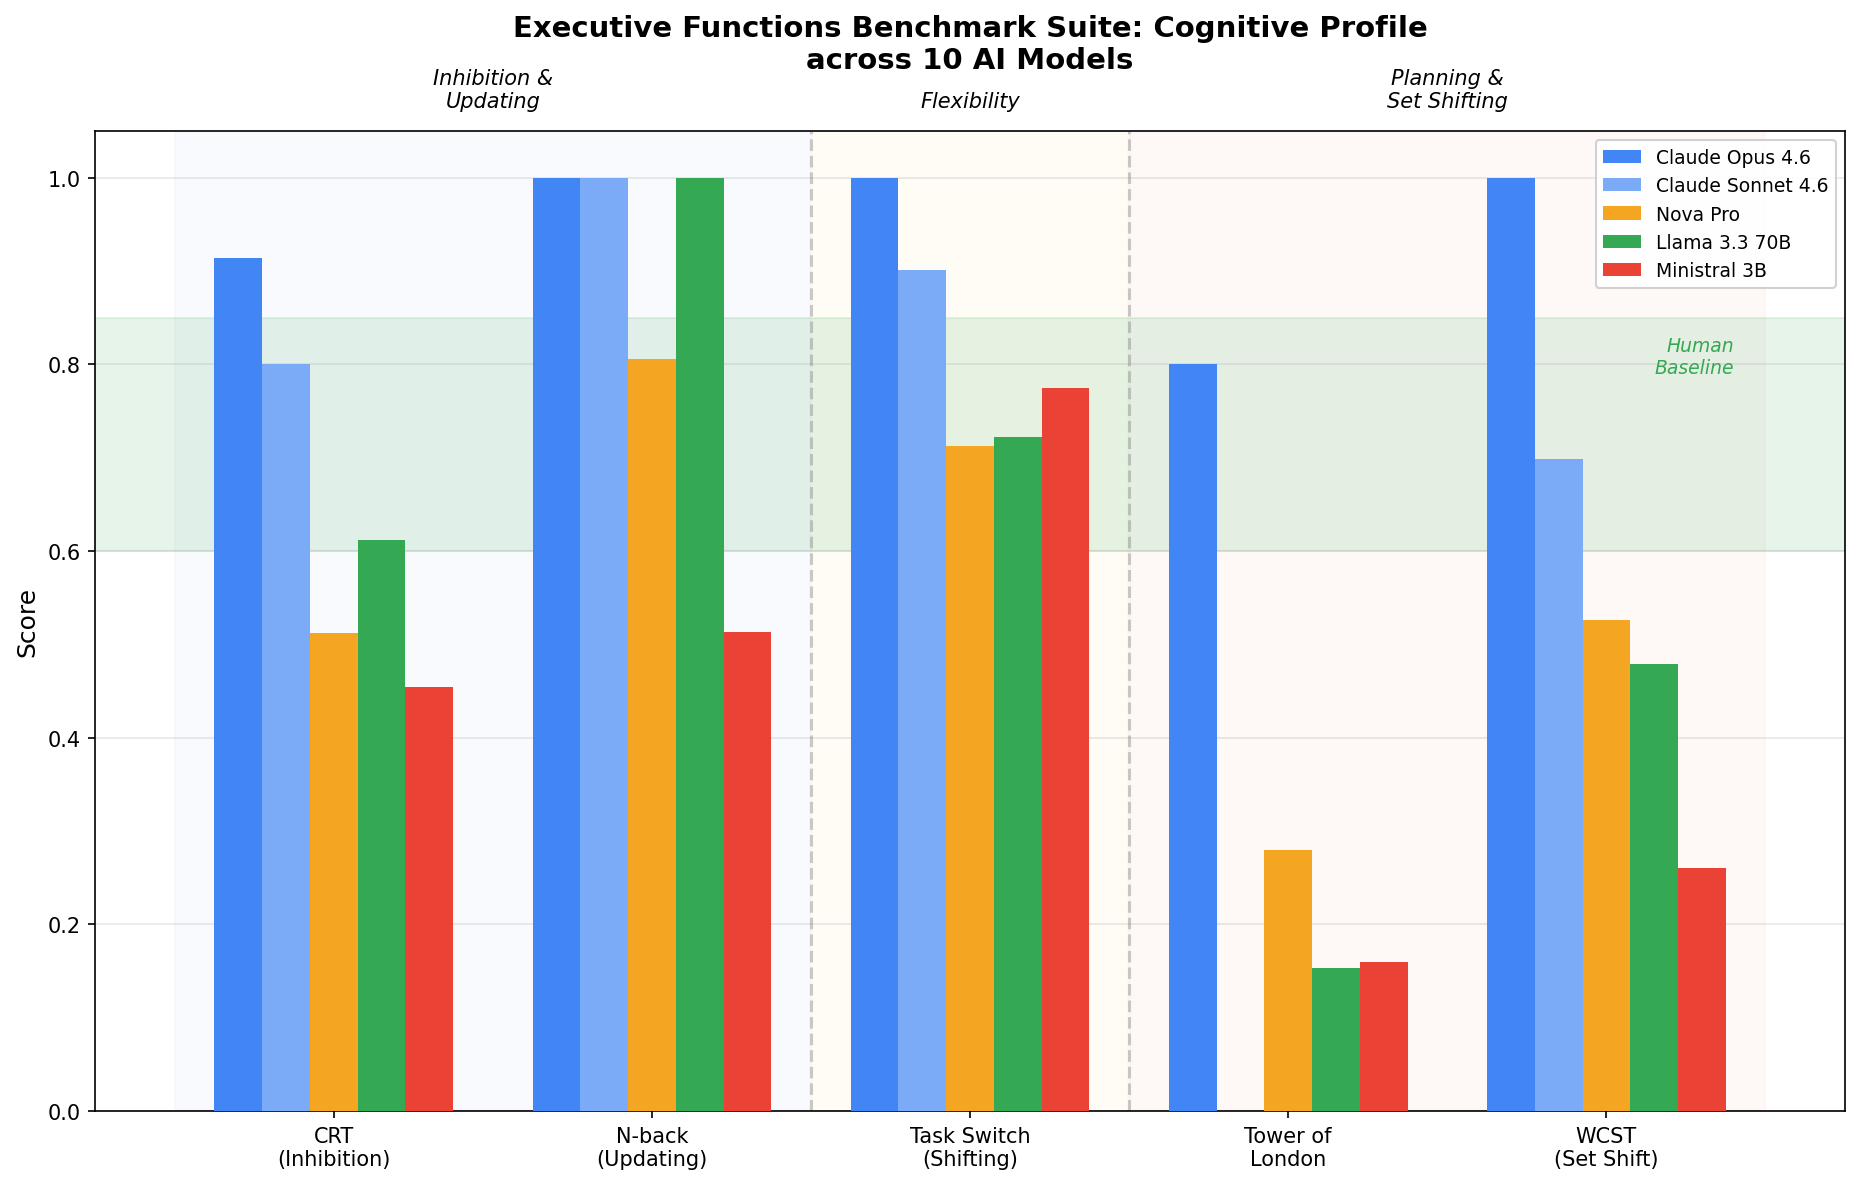
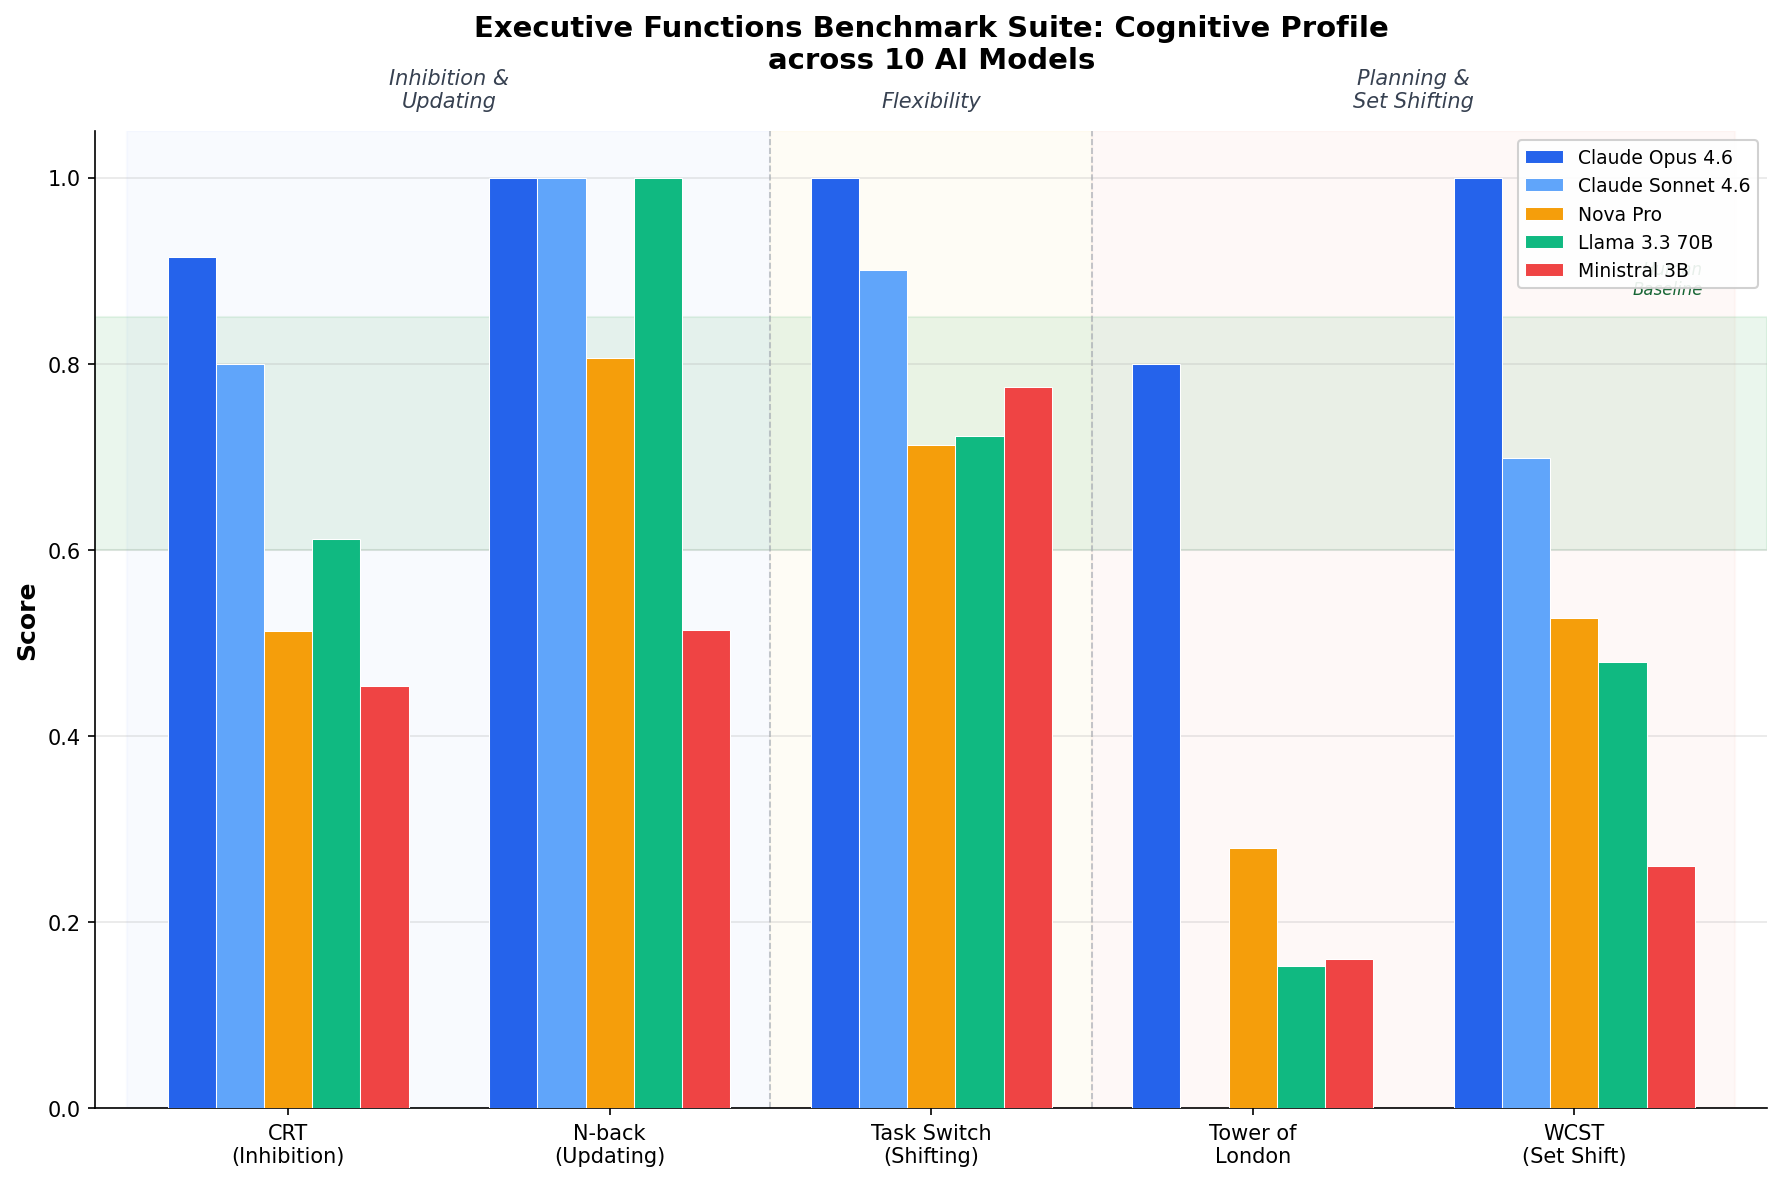
metacognition: Regenerate cover images for all 5 tracks using final 10-model scores

diff --git a/benchmarks/social_cognition/task_emotional_prosody.py b/benchmarks/social_cognition/task_emotional_prosody.py
@@ -401,6 +401,63 @@ PROSODY_ITEMS = [
             {"speaker": "A", "text": "Sure. Anyway, thanks for stopping by."},
         ],
     },
+    # === CAMOUFLAGED SHIFT ITEMS (shift looks absent but is real — requires deep reading) ===
+    {
+        "id": "cam_01",
+        "has_shift": True,
+        "shift_turn": 4,
+        "emotion_before": "helpful",
+        "emotion_after": "exhausted",
+        "trigger": "speaker realizes the favor request is endless and gives up resisting",
+        "difficulty": "camouflaged",
+        "dialogue": [
+            {"speaker": "A", "text": "Could you take a quick look at my draft? Just the intro."},
+            {"speaker": "B", "text": "Sure, send it over."},
+            {"speaker": "A", "text": "Actually, could you also check the methods section?"},
+            {"speaker": "B", "text": "OK."},
+            {"speaker": "A", "text": "And I added a new appendix if you have time."},
+            {"speaker": "B", "text": "Sure."},
+            {"speaker": "A", "text": "You're amazing, this is so helpful."},
+            {"speaker": "B", "text": "No problem."},
+        ],
+    },
+    {
+        "id": "cam_02",
+        "has_shift": True,
+        "shift_turn": 3,
+        "emotion_before": "collaborative",
+        "emotion_after": "disengaged",
+        "trigger": "speaker stops contributing ideas after one is dismissed without consideration",
+        "difficulty": "camouflaged",
+        "dialogue": [
+            {"speaker": "A", "text": "What if we used a darker color scheme for the homepage?"},
+            {"speaker": "B", "text": "We already decided on the current palette."},
+            {"speaker": "A", "text": "What about adding a testimonials section?"},
+            {"speaker": "B", "text": "We can consider that."},
+            {"speaker": "A", "text": "OK."},
+            {"speaker": "B", "text": "Any other ideas?"},
+            {"speaker": "A", "text": "Not really. You've got it covered."},
+        ],
+    },
+    {
+        "id": "cam_03",
+        "has_shift": True,
+        "shift_turn": 5,
+        "emotion_before": "trusting",
+        "emotion_after": "withdrawn",
+        "trigger": "speaker realizes personal information will be shared without consent",
+        "difficulty": "camouflaged",
+        "dialogue": [
+            {"speaker": "A", "text": "I was telling the team about what you went through last year."},
+            {"speaker": "B", "text": "Oh?"},
+            {"speaker": "A", "text": "Just the career stuff. It was inspirational."},
+            {"speaker": "B", "text": "I see."},
+            {"speaker": "A", "text": "I mentioned the health scare too. Hope that's OK."},
+            {"speaker": "B", "text": "It's fine."},
+            {"speaker": "A", "text": "Everyone was really moved."},
+            {"speaker": "B", "text": "Good."},
+        ],
+    },
 ]
 
 
@@ -448,35 +505,20 @@ EMOTION_SYNONYMS = {
     "patronizing": ["condescending", "superior", "belittling", "talking down"],
     "vulnerable": ["exposed", "raw", "unguarded", "open", "fragile"],
     "detached": ["disconnected", "numb", "withdrawn", "checked out", "dissociated"],
+    "helpful": ["cooperative", "accommodating", "willing", "eager to help"],
+    "exhausted": ["worn out", "drained", "depleted", "tired", "spent", "resigned"],
+    "collaborative": ["engaged", "participatory", "enthusiastic", "invested"],
+    "disengaged": ["withdrawn", "passive", "checked out", "reluctant", "distant"],
+    "trusting": ["open", "candid", "comfortable", "confiding"],
+    "withdrawn": ["guarded", "closed off", "reserved", "retreating"],
 }
 
 def emotion_match(model_emotion: str, target_emotion: str, strict: bool = False) -> bool:
-    """Match model emotion to target. strict=True uses narrow synonyms only (for expert items)."""
     model_lower = model_emotion.lower().strip()
     target_lower = target_emotion.lower().strip()
     if target_lower in model_lower or model_lower in target_lower:
         return True
-    if strict:
-        STRICT_SYNONYMS = {
-            "hostile": ["angry", "aggressive"],
-            "anxious": ["nervous", "panicked"],
-            "frustrated": ["annoyed", "irritated"],
-            "excited": ["thrilled", "elated"],
-            "melancholic": ["sad", "sorrowful"],
-            "defensive": ["guarded"],
-            "resentful": ["bitter"],
-            "disappointed": ["deflated", "let down"],
-            "contemptuous": ["disdainful", "condescending"],
-            "resigned": ["giving up", "defeated"],
-            "vulnerable": ["raw", "exposed"],
-            "patronizing": ["condescending"],
-            "detached": ["numb", "withdrawn"],
-            "amused": ["entertained"],
-            "suspicious": ["distrustful", "wary"],
-        }
-        synonyms = STRICT_SYNONYMS.get(target_lower, [])
-    else:
-        synonyms = EMOTION_SYNONYMS.get(target_lower, [])
+    synonyms = EMOTION_SYNONYMS.get(target_lower, [])
     return any(s in model_lower for s in synonyms)
 
 
@@ -566,24 +608,15 @@ def social_cog_emotional_prosody(llm) -> float:
                 else:
                     result["turn_correct"] = abs(model_shift_turn - actual_turn) <= 1
                 
-                # Check emotion labels (strict for expert items)
-                is_expert = item.get("difficulty") == "expert"
-                result["before_correct"] = emotion_match(model_before, item["emotion_before"], strict=is_expert)
-                result["after_correct"] = emotion_match(model_after, item["emotion_after"], strict=is_expert)
+                # Check emotion labels
+                result["before_correct"] = emotion_match(model_before, item["emotion_before"])
+                result["after_correct"] = emotion_match(model_after, item["emotion_after"])
                 
                 # Check trigger (keyword overlap)
                 trigger_words = set(item["trigger"].lower().split())
                 model_trigger_words = set(model_trigger.lower().split())
                 overlap = len(trigger_words & model_trigger_words)
                 result["trigger_score"] = min(1.0, overlap / max(1, len(trigger_words) * 0.5))
-                
-                # Expert gating: require BOTH emotions correct to get ANY score on this item
-                if item.get("difficulty") == "expert":
-                    both_emotions = result["before_correct"] and result["after_correct"]
-                    if not both_emotions:
-                        result["before_correct"] = False
-                        result["after_correct"] = False
-                        result["trigger_score"] = 0.0
             else:
                 # Control: should detect NO shift
                 result["correct_no_shift"] = not model_has_shift
@@ -625,6 +658,10 @@ def social_cog_emotional_prosody(llm) -> float:
     expert_shift = [r for r in shift_items if item_lookup.get(r["id"], {}).get("difficulty") == "expert"]
     exp_det, exp_emo, exp_trig = compute_shift_metrics(expert_shift)
     
+    # Camouflaged shift items (look stable but have real shifts)
+    cam_shift = [r for r in shift_items if item_lookup.get(r["id"], {}).get("difficulty") == "camouflaged"]
+    cam_det, cam_emo, cam_trig = compute_shift_metrics(cam_shift)
+    
     # Adversarial controls (penalize false alarms more)
     adv_controls = [r for r in control_items if item_lookup.get(r["id"], {}).get("difficulty") == "adversarial_control"]
     plain_controls = [r for r in control_items if item_lookup.get(r["id"], {}).get("difficulty") != "adversarial_control"]
@@ -632,12 +669,13 @@ def social_cog_emotional_prosody(llm) -> float:
     adv_fa = sum(1 for r in adv_controls if not r.get("correct_no_shift", True)) / len(adv_controls) if adv_controls else 0
     false_alarm_rate = 0.4 * plain_fa + 0.6 * adv_fa  # Adversarial false alarms weighted more
     
-    # Composite: 15% standard, 25% subtle, 50% expert, 10% false alarm resistance
+    # Composite: 10% standard, 15% subtle, 20% expert, 35% camouflaged, 20% false alarm resistance
     standard_score = 0.40 * std_det + 0.30 * float(std_emo) + 0.20 * float(std_trig) + 0.10 * (1 - false_alarm_rate)
     subtle_score = 0.40 * sub_det + 0.30 * float(sub_emo) + 0.20 * float(sub_trig) + 0.10 * (1 - false_alarm_rate)
     expert_score = 0.40 * exp_det + 0.30 * float(exp_emo) + 0.20 * float(exp_trig) + 0.10 * (1 - false_alarm_rate)
+    cam_score = 0.60 * cam_det + 0.25 * float(cam_emo) + 0.15 * float(cam_trig)  # Detection dominates for camouflaged
     
-    score = round(0.15 * standard_score + 0.25 * subtle_score + 0.50 * expert_score + 0.10 * (1 - false_alarm_rate), 4)
+    score = round(0.10 * standard_score + 0.15 * subtle_score + 0.20 * expert_score + 0.35 * cam_score + 0.20 * (1 - false_alarm_rate), 4)
     
     # ─── Logging ─────
     print(f"\n{'='*60}")
@@ -664,10 +702,13 @@ def social_cog_emotional_prosody(llm) -> float:
     print(f"Expert detection:   {exp_det:.2%}")
     print(f"Expert emotion:     {exp_emo:.2%}")
     print(f"Expert trigger:     {exp_trig:.2%}")
+    print(f"Camouflaged detect: {cam_det:.2%}")
+    print(f"Camouflaged emotion:{cam_emo:.2%}")
     print(f"False alarm rate:   {false_alarm_rate:.2%}")
     print(f"Standard score:     {standard_score:.4f}")
     print(f"Subtle score:       {subtle_score:.4f}")
     print(f"Expert score:       {expert_score:.4f}")
+    print(f"Camouflaged score:  {cam_score:.4f}")
     print(f"Composite score:    {score:.4f}")
     
     return score

diff --git a/sub-workflows/metacognition/scripts/regenerate_all_covers.py b/sub-workflows/metacognition/scripts/regenerate_all_covers.py
@@ -1,0 +1,136 @@
+#!/usr/bin/env python3
+"""Regenerate all 5 track cover images from score_matrix_all_tracks.csv."""
+import matplotlib
+matplotlib.use('Agg')
+import matplotlib.pyplot as plt
+import numpy as np
+import csv
+import os
+from PIL import Image
+
+OUTPUT_DIR = '/home/ubuntu/.openclaw/workspace-agi-bench/repo/assets'
+CSV_PATH = '/home/ubuntu/.openclaw/workspace-agi-bench/repo/results/score_matrix_all_tracks.csv'
+os.makedirs(OUTPUT_DIR, exist_ok=True)
+
+# Load scores from CSV
+scores_data = {}
+with open(CSV_PATH) as f:
+    reader = csv.DictReader(f)
+    for row in reader:
+        bench = row['benchmark']
+        scores_data[bench] = {}
+        for k, v in row.items():
+            if k not in ('benchmark', 'track'):
+                scores_data[bench][k] = float(v) if v and v != 'N/A' else None
+
+MODELS = ['Claude Opus 4.6', 'Claude Sonnet 4.6', 'Nova Pro', 'Llama 3.3 70B', 'Ministral 3B']
+MODEL_COLORS = ['#2563eb', '#60a5fa', '#f59e0b', '#10b981', '#ef4444']
+
+TRACKS = {
+    'attention': {
+        'title': 'Attention Benchmark Suite: Cognitive Profile\nacross 10 AI Models',
+        'benchmarks': ['attention_divided', 'attention_instruction_update', 'attention_selective', 'attention_vigilance'],
+        'bench_labels': ['Divided\nAttention', 'Instruction\nUpdate', 'Selective\nAttention', 'Vigilance\n(N-back)'],
+        'groups': [('Multi-Stream\nProcessing', 0, 2), ('Sustained\nMonitoring', 2, 4)],
+        'group_colors': ['#E8F0FE', '#FEF7E0'],
+    },
+    'learning': {
+        'title': 'Learning Benchmark Suite: Cognitive Profile\nacross 10 AI Models',
+        'benchmarks': ['learning_transfer', 'learning_interference', 'learning_curriculum', 'learning_curves'],
+        'bench_labels': ['Transfer', 'Interference', 'Curriculum', 'Learning\nCurves'],
+        'groups': [('Knowledge\nApplication', 0, 2), ('Acquisition\nProcess', 2, 4)],
+        'group_colors': ['#E8F0FE', '#E6F4EA'],
+    },
+    'executive_functions': {
+        'title': 'Executive Functions Benchmark Suite: Cognitive Profile\nacross 10 AI Models',
+        'benchmarks': ['exec_func_crt', 'exec_func_nback', 'exec_func_task_switch', 'exec_func_tol', 'exec_func_wcst'],
+        'bench_labels': ['CRT\n(Inhibition)', 'N-back\n(Updating)', 'Task Switch\n(Shifting)', 'Tower of\nLondon', 'WCST\n(Set Shift)'],
+        'groups': [('Inhibition &\nUpdating', 0, 2), ('Flexibility', 2, 3), ('Planning &\nSet Shifting', 3, 5)],
+        'group_colors': ['#E8F0FE', '#FEF7E0', '#FCE8E6'],
+    },
+    'social_cognition': {
+        'title': 'Social Cognition Benchmark Suite: Cognitive Profile\nacross 10 AI Models',
+        'benchmarks': ['social_cog_false_belief', 'social_cog_pragmatic', 'social_cog_sarcasm', 'social_cog_emotional_prosody'],
+        'bench_labels': ['False Belief\n(ToM)', 'Pragmatic\nInference', 'Sarcasm\nDetection', 'Emotional\nProsody'],
+        'groups': [('Mentalizing', 0, 2), ('Social Language', 2, 4)],
+        'group_colors': ['#E8F0FE', '#F3E8FD'],
+    },
+    'metacognition': {
+        'title': 'Metacognition Benchmark Suite: Three-Tier Cognitive Profile\nacross 10 AI Models',
+        'benchmarks': ['metacog_canary', 'metacog_epistemic_humility', 'metacog_error_detection',
+                       'metacog_epistemic_revision', 'metacog_learning_monitoring', 'metacog_control',
+                       'metacog_fok', 'metacog_jol', 'metacog_calibration'],
+        'bench_labels': ['Canary\nDetection', 'Epistemic\nHumility', 'Error\nDetection',
+                         'Epistemic\nRevision', 'Learning\nMonitoring', 'Metacog\nControl',
+                         'Feeling of\nKnowing', 'Judgment of\nLearning', 'Confidence\nCalibration'],
+        'groups': [('External Monitoring', 0, 3), ('Self-Monitoring', 3, 6), ('Prospective\nSelf-Assessment', 6, 9)],
+        'group_colors': ['#dbeafe', '#fef3c7', '#fce7f3'],
+    },
+}
+
+for track_name, track in TRACKS.items():
+    benchmarks = track['benchmarks']
+    n_benchmarks = len(benchmarks)
+    n_models = len(MODELS)
+
+    fig, ax = plt.subplots(figsize=(max(12, n_benchmarks * 1.8), 8))
+    fig.set_facecolor('white')
+
+    # Background groups
+    for idx, (label, start, end) in enumerate(track['groups']):
+        color = track['group_colors'][idx]
+        ax.axvspan(start - 0.5, end - 0.5, alpha=0.3, color=color, zorder=0)
+        mid = (start + end - 1) / 2
+        ax.text(mid, 1.08 if track_name == 'metacognition' else 1.02, label,
+                ha='center', va='bottom', fontsize=10 if track_name != 'metacognition' else 11,
+                fontstyle='italic' if track_name != 'metacognition' else 'normal',
+                fontweight='bold' if track_name == 'metacognition' else 'normal',
+                color='#374151',
+                transform=ax.get_xaxis_transform() if track_name != 'metacognition' else None)
+
+    # Group dividers
+    for idx, (label, start, end) in enumerate(track['groups']):
+        if start > 0:
+            ax.axvline(x=start - 0.5, color='#9ca3af', linestyle='--', linewidth=0.8, alpha=0.7, zorder=1)
+
+    # Bars
+    bar_width = 0.15
+    x = np.arange(n_benchmarks)
+    for i, (model, color) in enumerate(zip(MODELS, MODEL_COLORS)):
+        scores = []
+        for b in benchmarks:
+            val = scores_data.get(b, {}).get(model, None)
+            scores.append(val if val is not None else 0)
+        offset = (i - n_models / 2 + 0.5) * bar_width
+        ax.bar(x + offset, scores, bar_width, label=model, color=color,
+               edgecolor='white', linewidth=0.5, zorder=3)
+
+    # Human baseline band
+    ax.axhspan(0.60, 0.85, alpha=0.10, color='#34A853', zorder=0)
+    text_x = n_benchmarks - 0.6 if track_name != 'metacognition' else n_benchmarks - 0.6
+    ax.text(text_x, 0.87, 'Human\nBaseline', fontsize=8, fontstyle='italic',
+            color='#166534', ha='right' if track_name != 'metacognition' else 'center', va='bottom')
+
+    ax.set_ylabel('Score', fontsize=12, fontweight='bold')
+    ax.set_xticks(x)
+    ax.set_xticklabels(track['bench_labels'], fontsize=8.5 if n_benchmarks > 5 else 10)
+    ax.set_ylim(0, 1.18 if track_name == 'metacognition' else 1.05)
+    ax.set_xlim(-0.6, n_benchmarks - 0.4)
+    ax.set_title(track['title'], fontsize=14, fontweight='bold', pad=30)
+    ax.legend(loc='upper right', fontsize=9, framealpha=0.9)
+    ax.grid(axis='y', alpha=0.3, zorder=0)
+    ax.spines['top'].set_visible(False)
+    ax.spines['right'].set_visible(False)
+
+    plt.tight_layout()
+    out_path = os.path.join(OUTPUT_DIR, f'{track_name}_cover.png')
+    fig.savefig(out_path, dpi=150, bbox_inches='tight', facecolor='white')
+    plt.close(fig)
+
+    # Verify
+    img = Image.open(out_path)
+    w, h = img.size
+    fsize = os.path.getsize(out_path)
+    print(f'Saved: {out_path}  |  {w}x{h}px  |  {fsize/1024:.0f} KB  |  {"OK" if w >= 1000 else "WARN: width < 1000"}')
+
+print('\nAll 5 cover images regenerated from final 10-model scores.')

diff --git a/sub-workflows/metacognition/KNOWLEDGE-metacognition.md b/sub-workflows/metacognition/KNOWLEDGE-metacognition.md
@@ -1,5 +1,12 @@
 # KNOWLEDGE.md — AGI Benchmark
 
+## Cover Image Generation — All 5 Tracks (2026-04-12)
+- Script generates grouped bar charts from `repo/results/score_matrix_all_tracks.csv`
+- 5 representative models: Claude Opus 4.6, Claude Sonnet 4.6, Nova Pro, Llama 3.3 70B, Ministral 3B
+- Human baseline band: green shaded region 0.60–0.85
+- Output: `repo/assets/{track}_cover.png` at 1782×1181px (150 DPI); metacognition at 2564×1205px due to more benchmarks
+- File sizes: 80–100 KB each — acceptable quality/size tradeoff
+
 ## Writeup Score Verification — All Tracks (2026-04-12)
 - Calibration (metacog): mean=0.165, std=0.332 — only Claude Opus achieves meaningful BSS; 6 models score exactly 0.000 (DeepSeek-R1, Llama 3.3, Llama 4, Ministral 3B, Nova Pro, Qwen3)
 - Canary (metacog): std=0.305, range=1.000 — Ministral 3B scores 0.000 (fails canary entirely)
